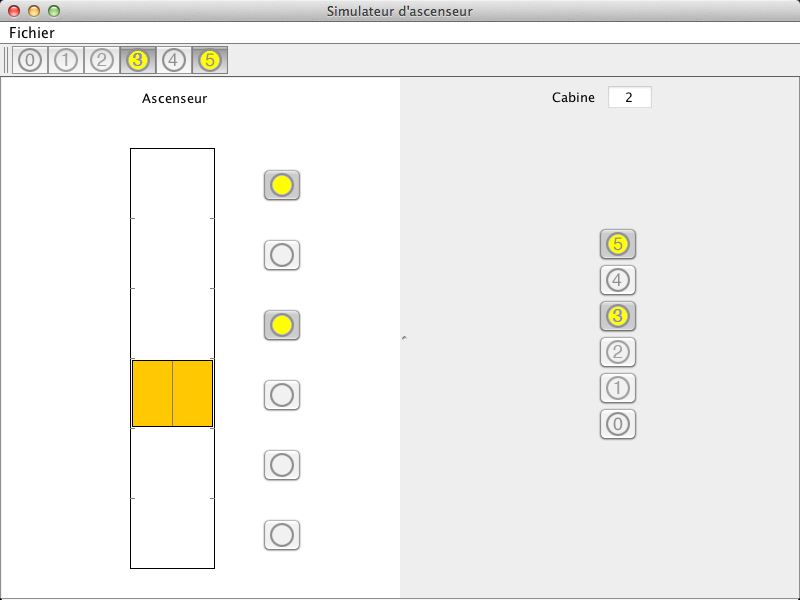
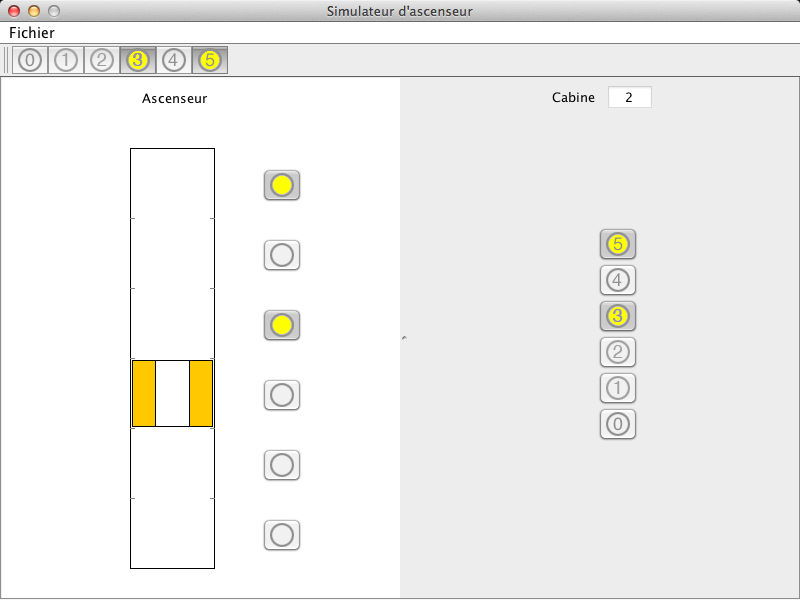
Add door movement (opening and closing)
Update JAR and JavaDoc

Changed region(s): [[0.1875, 0.6, 0.25, 0.72], [0.0625, 0.0, 0.0938, 0.03]]

diff --git a/doc/lift/LiftView.html b/doc/lift/LiftView.html
@@ -2,12 +2,12 @@
 <!--NewPage-->
 <HTML>
 <HEAD>
-<!-- Generated by javadoc (build 1.6.0_45) on Wed May 01 22:55:51 CEST 2013 -->
+<!-- Generated by javadoc (build 1.6.0_45) on Thu May 02 20:30:15 CEST 2013 -->
 <TITLE>
 LiftView
 </TITLE>
 
-<META NAME="date" CONTENT="2013-05-01">
+<META NAME="date" CONTENT="2013-05-02">
 
 <LINK REL ="stylesheet" TYPE="text/css" HREF="../stylesheet.css" TITLE="Style">
 
@@ -234,6 +234,14 @@ java.lang.Object
 <TR BGCOLOR="white" CLASS="TableRowColor">
 <TD ALIGN="right" VALIGN="top" WIDTH="1%"><FONT SIZE="-1">
 <CODE>&nbsp;void</CODE></FONT></TD>
+<TD><CODE><B><A HREF="../lift/LiftView.html#changeDoor(int)">changeDoor</A></B>(int&nbsp;value)</CODE>
+
+<BR>
+&nbsp;&nbsp;&nbsp;&nbsp;&nbsp;&nbsp;&nbsp;&nbsp;&nbsp;&nbsp;Repaint cage lift after open/close door</TD>
+</TR>
+<TR BGCOLOR="white" CLASS="TableRowColor">
+<TD ALIGN="right" VALIGN="top" WIDTH="1%"><FONT SIZE="-1">
+<CODE>&nbsp;void</CODE></FONT></TD>
 <TD><CODE><B><A HREF="../lift/LiftView.html#changePosition(int)">changePosition</A></B>(int&nbsp;value)</CODE>
 
 <BR>
@@ -352,6 +360,19 @@ changePosition</H3>
 public void <B>changePosition</B>(int&nbsp;value)</PRE>
 <DL>
 <DD>Repaint lift after got the new position
+<P>
+<DD><DL>
+<DT><B>Parameters:</B><DD><CODE>value</CODE> - </DL>
+</DD>
+</DL>
+<HR>
+
+<A NAME="changeDoor(int)"><!-- --></A><H3>
+changeDoor</H3>
+<PRE>
+public void <B>changeDoor</B>(int&nbsp;value)</PRE>
+<DL>
+<DD>Repaint cage lift after open/close door
 <P>
 <DD><DL>
 <DT><B>Parameters:</B><DD><CODE>value</CODE> - </DL>

diff --git a/doc/index-files/index-2.html b/doc/index-files/index-2.html
@@ -2,12 +2,12 @@
 <!--NewPage-->
 <HTML>
 <HEAD>
-<!-- Generated by javadoc (build 1.6.0_45) on Wed May 01 22:55:52 CEST 2013 -->
+<!-- Generated by javadoc (build 1.6.0_45) on Thu May 02 20:30:15 CEST 2013 -->
 <TITLE>
 C-Index
 </TITLE>
 
-<META NAME="date" CONTENT="2013-05-01">
+<META NAME="date" CONTENT="2013-05-02">
 
 <LINK REL ="stylesheet" TYPE="text/css" HREF="../stylesheet.css" TITLE="Style">
 
@@ -85,6 +85,9 @@ function windowTitle()
 <DT><A HREF="../lift/Lift.html#CAGE"><B>CAGE</B></A> - 
 Static variable in class lift.<A HREF="../lift/Lift.html" title="class in lift">Lift</A>
 <DD>&nbsp;
+<DT><A HREF="../lift/LiftView.html#changeDoor(int)"><B>changeDoor(int)</B></A> - 
+Method in class lift.<A HREF="../lift/LiftView.html" title="class in lift">LiftView</A>
+<DD>Repaint cage lift after open/close door
 <DT><A HREF="../lift/LiftView.html#changePosition(int)"><B>changePosition(int)</B></A> - 
 Method in class lift.<A HREF="../lift/LiftView.html" title="class in lift">LiftView</A>
 <DD>Repaint lift after got the new position

diff --git a/doc/serialized-form.html b/doc/serialized-form.html
@@ -2,12 +2,12 @@
 <!--NewPage-->
 <HTML>
 <HEAD>
-<!-- Generated by javadoc (build 1.6.0_45) on Wed May 01 22:55:52 CEST 2013 -->
+<!-- Generated by javadoc (build 1.6.0_45) on Thu May 02 20:30:15 CEST 2013 -->
 <TITLE>
 Serialized Form
 </TITLE>
 
-<META NAME="date" CONTENT="2013-05-01">
+<META NAME="date" CONTENT="2013-05-02">
 
 <LINK REL ="stylesheet" TYPE="text/css" HREF="stylesheet.css" TITLE="Style">
 
@@ -176,6 +176,15 @@ int <B>gutterButton</B></PRE>
 position</H3>
 <PRE>
 int <B>position</B></PRE>
+<DL>
+<DL>
+</DL>
+</DL>
+<HR>
+<H3>
+door</H3>
+<PRE>
+int <B>door</B></PRE>
 <DL>
 <DL>
 </DL>

diff --git a/doc/overview-summary.html b/doc/overview-summary.html
@@ -2,12 +2,12 @@
 <!--NewPage-->
 <HTML>
 <HEAD>
-<!-- Generated by javadoc (build 1.6.0_45) on Wed May 01 22:55:52 CEST 2013 -->
+<!-- Generated by javadoc (build 1.6.0_45) on Thu May 02 20:30:15 CEST 2013 -->
 <TITLE>
 Overview
 </TITLE>
 
-<META NAME="date" CONTENT="2013-05-01">
+<META NAME="date" CONTENT="2013-05-02">
 
 <LINK REL ="stylesheet" TYPE="text/css" HREF="stylesheet.css" TITLE="Style">
 
@@ -81,7 +81,7 @@ function windowTitle()
 <HR>
 <CENTER>
 <H1>
-TP IHM 2013 - Devenet
+TP AIHM 2013 - Devenet
 </H1>
 </CENTER>
 

diff --git a/doc/gui/class-use/Application.html b/doc/gui/class-use/Application.html
@@ -2,12 +2,12 @@
 <!--NewPage-->
 <HTML>
 <HEAD>
-<!-- Generated by javadoc (build 1.6.0_45) on Wed May 01 22:55:52 CEST 2013 -->
+<!-- Generated by javadoc (build 1.6.0_45) on Thu May 02 20:30:15 CEST 2013 -->
 <TITLE>
 Uses of Class gui.Application
 </TITLE>
 
-<META NAME="date" CONTENT="2013-05-01">
+<META NAME="date" CONTENT="2013-05-02">
 
 <LINK REL ="stylesheet" TYPE="text/css" HREF="../../stylesheet.css" TITLE="Style">
 

diff --git a/doc/lift/class-use/LiftView.html b/doc/lift/class-use/LiftView.html
@@ -2,12 +2,12 @@
 <!--NewPage-->
 <HTML>
 <HEAD>
-<!-- Generated by javadoc (build 1.6.0_45) on Wed May 01 22:55:52 CEST 2013 -->
+<!-- Generated by javadoc (build 1.6.0_45) on Thu May 02 20:30:15 CEST 2013 -->
 <TITLE>
 Uses of Class lift.LiftView
 </TITLE>
 
-<META NAME="date" CONTENT="2013-05-01">
+<META NAME="date" CONTENT="2013-05-02">
 
 <LINK REL ="stylesheet" TYPE="text/css" HREF="../../stylesheet.css" TITLE="Style">
 

diff --git a/doc/lift/class-use/Lift.html b/doc/lift/class-use/Lift.html
@@ -2,12 +2,12 @@
 <!--NewPage-->
 <HTML>
 <HEAD>
-<!-- Generated by javadoc (build 1.6.0_45) on Wed May 01 22:55:52 CEST 2013 -->
+<!-- Generated by javadoc (build 1.6.0_45) on Thu May 02 20:30:15 CEST 2013 -->
 <TITLE>
 Uses of Class lift.Lift
 </TITLE>
 
-<META NAME="date" CONTENT="2013-05-01">
+<META NAME="date" CONTENT="2013-05-02">
 
 <LINK REL ="stylesheet" TYPE="text/css" HREF="../../stylesheet.css" TITLE="Style">
 

diff --git a/doc/lift/package-tree.html b/doc/lift/package-tree.html
@@ -2,12 +2,12 @@
 <!--NewPage-->
 <HTML>
 <HEAD>
-<!-- Generated by javadoc (build 1.6.0_45) on Wed May 01 22:55:52 CEST 2013 -->
+<!-- Generated by javadoc (build 1.6.0_45) on Thu May 02 20:30:15 CEST 2013 -->
 <TITLE>
 lift Class Hierarchy
 </TITLE>
 
-<META NAME="date" CONTENT="2013-05-01">
+<META NAME="date" CONTENT="2013-05-02">
 
 <LINK REL ="stylesheet" TYPE="text/css" HREF="../stylesheet.css" TITLE="Style">
 

diff --git a/doc/lift/package-use.html b/doc/lift/package-use.html
@@ -2,12 +2,12 @@
 <!--NewPage-->
 <HTML>
 <HEAD>
-<!-- Generated by javadoc (build 1.6.0_45) on Wed May 01 22:55:52 CEST 2013 -->
+<!-- Generated by javadoc (build 1.6.0_45) on Thu May 02 20:30:15 CEST 2013 -->
 <TITLE>
 Uses of Package lift
 </TITLE>
 
-<META NAME="date" CONTENT="2013-05-01">
+<META NAME="date" CONTENT="2013-05-02">
 
 <LINK REL ="stylesheet" TYPE="text/css" HREF="../stylesheet.css" TITLE="Style">
 

diff --git a/doc/gui/package-tree.html b/doc/gui/package-tree.html
@@ -2,12 +2,12 @@
 <!--NewPage-->
 <HTML>
 <HEAD>
-<!-- Generated by javadoc (build 1.6.0_45) on Wed May 01 22:55:52 CEST 2013 -->
+<!-- Generated by javadoc (build 1.6.0_45) on Thu May 02 20:30:15 CEST 2013 -->
 <TITLE>
 gui Class Hierarchy
 </TITLE>
 
-<META NAME="date" CONTENT="2013-05-01">
+<META NAME="date" CONTENT="2013-05-02">
 
 <LINK REL ="stylesheet" TYPE="text/css" HREF="../stylesheet.css" TITLE="Style">
 

diff --git a/doc/gui/package-use.html b/doc/gui/package-use.html
@@ -2,12 +2,12 @@
 <!--NewPage-->
 <HTML>
 <HEAD>
-<!-- Generated by javadoc (build 1.6.0_45) on Wed May 01 22:55:52 CEST 2013 -->
+<!-- Generated by javadoc (build 1.6.0_45) on Thu May 02 20:30:15 CEST 2013 -->
 <TITLE>
 Uses of Package gui
 </TITLE>
 
-<META NAME="date" CONTENT="2013-05-01">
+<META NAME="date" CONTENT="2013-05-02">
 
 <LINK REL ="stylesheet" TYPE="text/css" HREF="../stylesheet.css" TITLE="Style">
 

diff --git a/doc/constant-values.html b/doc/constant-values.html
@@ -2,12 +2,12 @@
 <!--NewPage-->
 <HTML>
 <HEAD>
-<!-- Generated by javadoc (build 1.6.0_45) on Wed May 01 22:55:52 CEST 2013 -->
+<!-- Generated by javadoc (build 1.6.0_45) on Thu May 02 20:30:15 CEST 2013 -->
 <TITLE>
 Constant Field Values
 </TITLE>
 
-<META NAME="date" CONTENT="2013-05-01">
+<META NAME="date" CONTENT="2013-05-02">
 
 <LINK REL ="stylesheet" TYPE="text/css" HREF="stylesheet.css" TITLE="Style">
 
